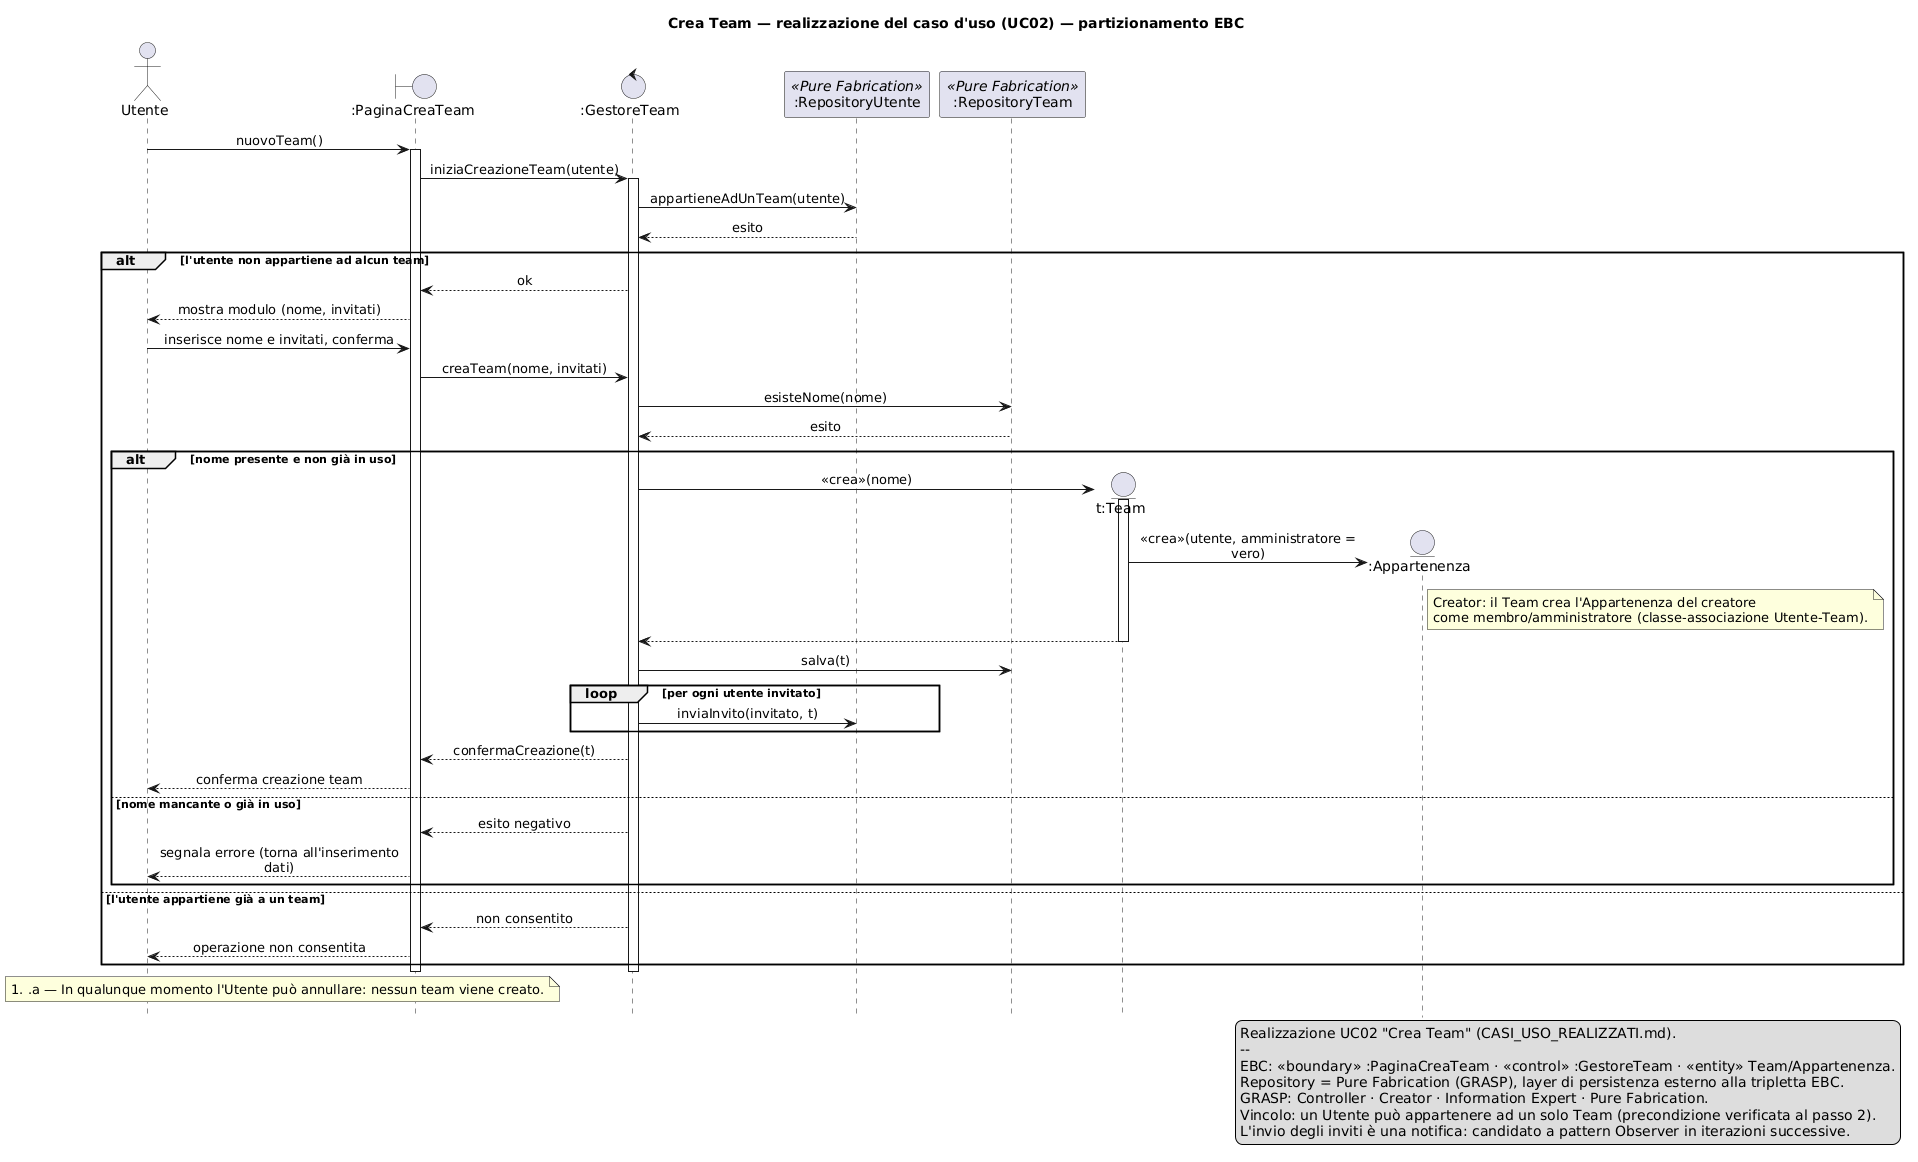
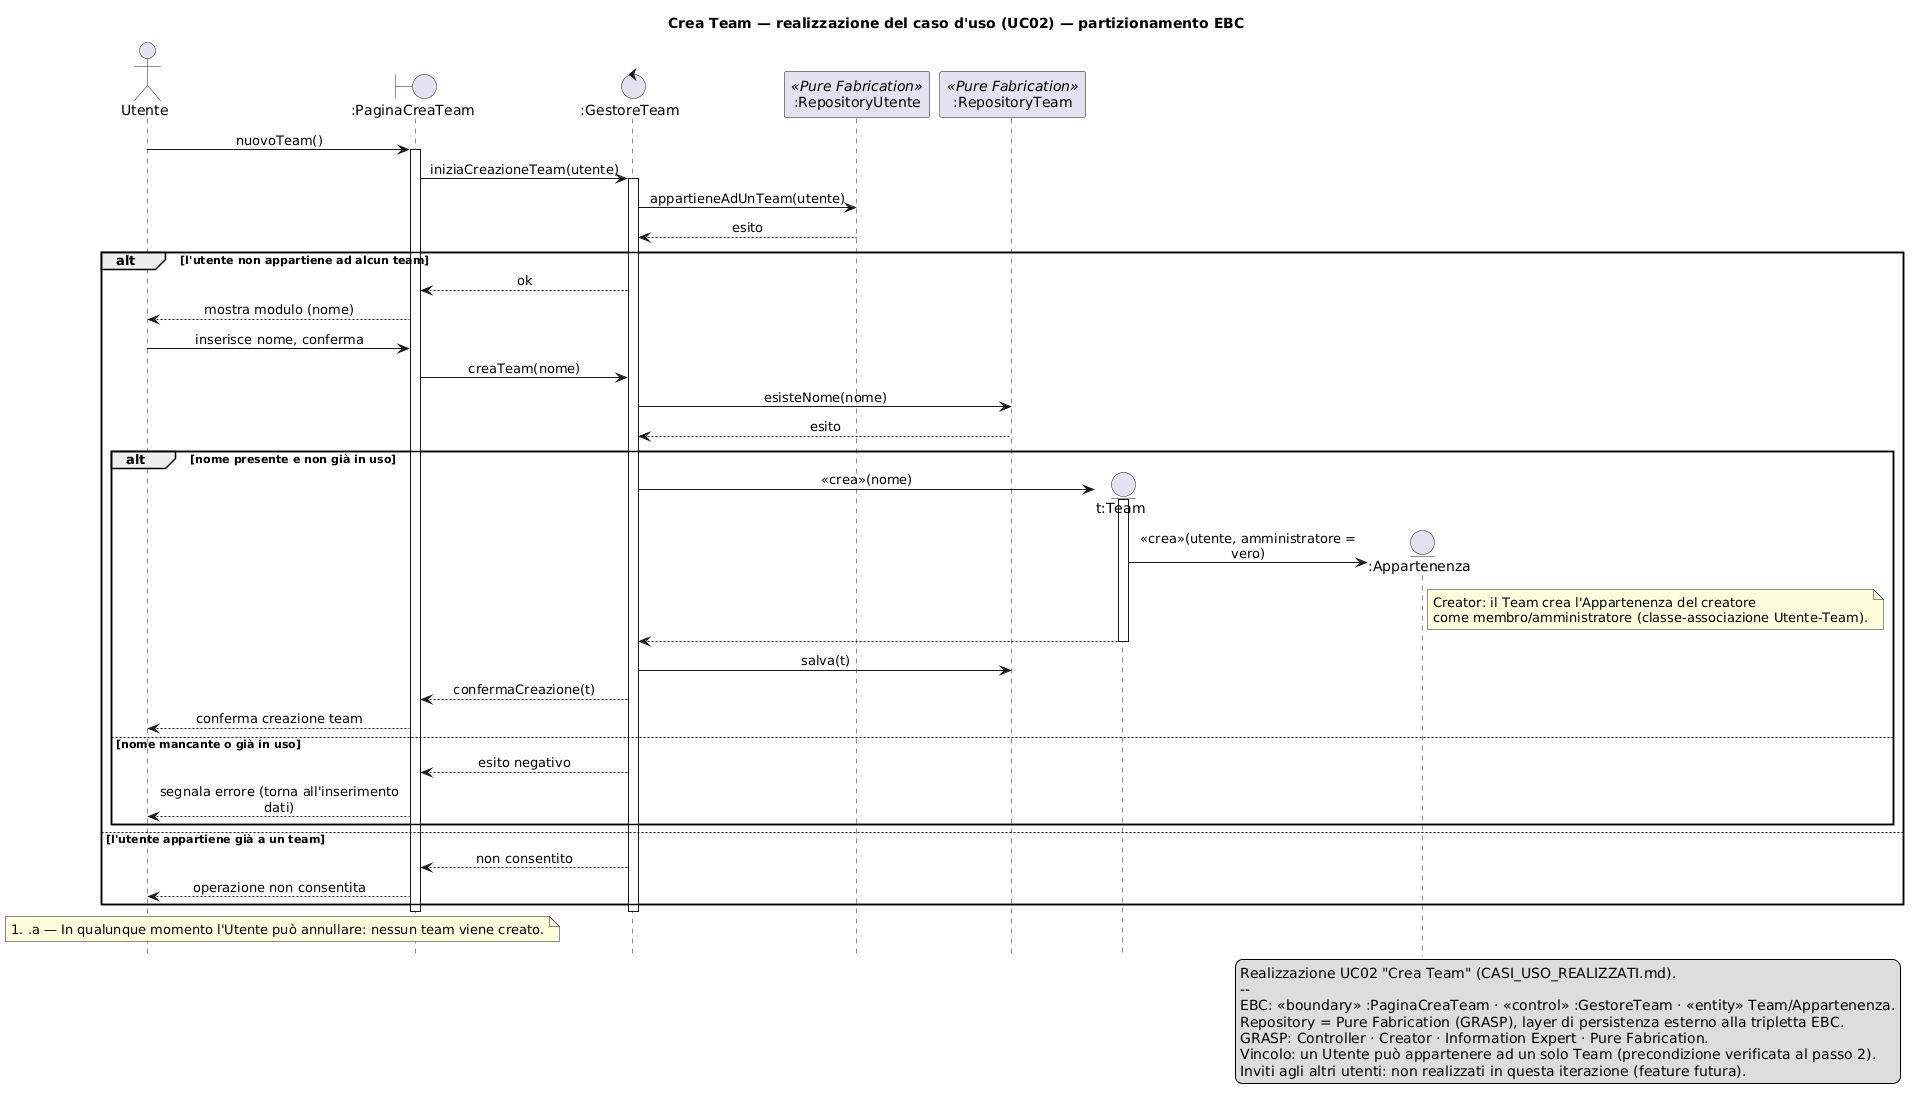
Aggiunge la relazione di realizzazione e rimuove gli inviti da Crea Team
- Nuovo documento RELAZIONE_REALIZZAZIONE.md: spiega la realizzazione dei
  5 casi d'uso tramite i diagrammi di sequenza (EBC, GRASP, State GoF) con
  le motivazioni ancorate ai materiali del corso.
- Crea Team: l'invito di altri utenti è rinviato a un'iterazione futura;
  aggiornati caso d'uso, diagramma di sequenza e legenda di conseguenza.

diff --git a/iterazione1/diagrammiSequenza/RELAZIONE_REALIZZAZIONE.md b/iterazione1/diagrammiSequenza/RELAZIONE_REALIZZAZIONE.md
@@ -1,0 +1,303 @@
+## Realizzazione dei casi d'uso — Diagrammi di sequenza (1ª iterazione HackHub)
+
+Questo documento spiega **le scelte fatte** nella realizzazione dei 5 casi d'uso della prima iterazione
+tramite i **diagrammi di sequenza** e ne dà le **motivazioni**, ancorandole ai materiali del corso
+(`docs/`). Non è una specifica nuova: i casi d'uso sono in `iterazione1/useCase/CASI_USO_REALIZZATI.md`,
+il modello di dominio in `iterazione1/analisi/CLASSI_ANALISI_REALIZZATI.puml`, e i diagrammi sorgente in
+`iterazione1/diagrammiSequenza/*/SEQ_*.puml` (con i PNG/SVG renderizzati accanto). Qui si argomenta
+**perché** quei diagrammi sono fatti così.
+
+---
+
+## 1. Scopo e collocazione nel Processo Unificato
+
+Nel Processo Unificato la **realizzazione di un caso d'uso** (_use-case realization_) è il passo che
+collega l'analisi alla progettazione: si parte dal **modello di analisi** (le classi di dominio) e si
+mostra **come gli oggetti collaborano** per eseguire lo scenario del caso d'uso, attraverso uno o più
+**diagrammi di interazione** (`docs/UML_05_Interazioni.pdf`). Il diagramma di sequenza è quindi la
+"prova" dinamica che il modello statico di analisi è sufficiente a soddisfare il comportamento richiesto.
+
+In questo passaggio compaiono **classi che non sono nel dominio del problema** ma nel **dominio della
+soluzione**: secondo `docs/UML_07_Progettazione.pdf` (slide 4-6) le classi di progettazione nascono sia
+dal dominio del problema (concetti dei requisiti) sia dal dominio della soluzione — _middleware,
+framework, **design pattern**, librerie di utilità_. È esattamente ciò che facciamo qui introducendo i
+**controller** EBC, i **Repository** (Pure Fabrication) e gli **oggetti-stato** del pattern State: non
+sono entità di dominio, sono raffinamenti di progettazione.
+
+> Lo stile delle classi di analisi resta quello _domain model_ (niente operazioni, tipi e visibilità
+> omessi — `docs/UML_03_Class.pdf` slide 13); le responsabilità (i metodi) emergono **qui**, assegnandole
+> con i criteri GRASP.
+
+---
+
+## 2. Le scelte dell'iterazione (recap)
+
+I 5 casi d'uso scelti formano la **catena del valore** (_walking skeleton_) della piattaforma: un
+percorso eseguibile end-to-end che attraversa tutti gli strati architetturali e coinvolge tutti gli
+attori primari. La motivazione completa della selezione (ranking, copertura architetturale, rischio) è in
+`iterazione1/legacy/ITERAZIONE_1_CASI_USO.md`; qui basti il percorso:
+
+```
+Crea Hackathon ─▶ Crea Team ─▶ Iscrivi Team ─▶ Invia Sottomissione ─▶ Valuta Sottomissione
+(InIscrizione)               (Team→Hackathon)   (entro la finestra)    (giudizio + voto 0–10)
+```
+
+| UC   | Caso d'uso           | Attore primario | Diagramma di sequenza                              |
+| ---- | -------------------- | --------------- | -------------------------------------------------- |
+| UC01 | Crea Hackathon       | Organizzatore   | `creaHackathon/SEQ_CreaHackathon.puml`             |
+| UC02 | Crea Team            | Utente          | `creaTeam/SEQ_CreaTeam.puml`                       |
+| UC03 | Iscrivi Team         | Membro del team | `iscriviTeam/SEQ_IscriviTeam.puml`                 |
+| UC04 | Invia Sottomissione  | Membro del team | `inviaSottomissione/SEQ_InviaSottomissione.puml`   |
+| UC05 | Valuta Sottomissione | Giudice         | `valutaSottomissione/SEQ_ValutaSottomissione.puml` |
+
+---
+
+## 3. Notazione adottata (UML_05)
+
+Tutti i diagrammi usano la notazione UML 2 per le interazioni (`docs/UML_05_Interazioni.pdf`):
+
+- **Linee di vita** per attore, boundary, control, entità e Repository.
+- **Barra di attivazione (focus)**: indica quando un oggetto è attivo nell'eseguire un'operazione.
+- **Messaggio sincrono** `->` (punta piena): chiamata con attesa della risposta.
+- **Messaggio di ritorno** `-->` (tratteggiato): risposta al chiamante.
+- **Creazione** `«crea»` con `create entity`: nascita di un nuovo oggetto sulla sua linea di vita.
+- **Frammenti combinati** `alt` / `opt` / `loop`: usati per mappare le **estensioni** dei casi d'uso
+  (i flussi alternativi e d'errore) e le ripetizioni.
+- **Niente tipi dei parametri** nei messaggi (`UML_05` slide 2): in fase di realizzazione interessano le
+  responsabilità e le collaborazioni, non le firme complete (che si fissano in implementazione).
+
+Scelte di leggibilità (coerenti con `CLAUDE.md` punto 5): `hide footbox` per eliminare il rumore in fondo
+e alcuni `skinparam` (`maxMessageSize`, allineamento) per evitare scritte sovrapposte. Ogni `.puml` ha una
+**legenda** che raccoglie i vincoli non esprimibili graficamente, così il diagramma resta pulito.
+
+---
+
+## 4. Il partizionamento EBC (Boundary–Control–Entity)
+
+Ogni diagramma è partizionato secondo la tripletta **EBC** (Entity–Boundary–Control):
+
+- **«boundary» `:PaginaXxx`** — il confine col mondo esterno (la schermata/endpoint con cui interagisce
+  l'attore). Disaccoppia l'attore dalla logica.
+- **«control» `:GestoreXxx`** — il **Controller** del caso d'uso. In `docs/PatternsGRASP.pdf` (slide 11) il
+  Controller è descritto come _"il C dell'approccio BCE all'identificazione delle classi"_: un oggetto
+  _use-case handler_ che riceve l'evento di sistema dalla boundary, orchestra le entità e coordina la
+  persistenza. Uno per caso d'uso (`GestoreHackathon`, `GestoreTeam`, `GestoreIscrizioni`,
+  `GestoreSottomissioni`, `GestoreValutazioni`).
+- **«entity»** — le classi di **dominio** (Hackathon, Team, Iscrizione, Sottomissione, …): mantengono i
+  dati e gli invarianti, **non** parlano con l'interfaccia né con la persistenza.
+
+Accanto alla tripletta vivono i **Repository** (`RepositoryHackathon`, `RepositoryTeam`, …), marcati
+`<<Pure Fabrication>>`: sono il layer di **persistenza**, esterno all'EBC.
+
+> **Regola di accoppiamento (correzione applicata in questa iterazione).** Ai Repository accede **solo il
+> Controller**: le entità di dominio non conoscono la persistenza. Nei diagrammi questo si vede dal fatto
+> che l'entità _crea_ o _aggiorna_ l'oggetto e lo **restituisce** al controller, che poi invoca
+> `salva(...)`. Così si rispetta **Low Coupling / High Cohesion** (`PatternsGRASP.pdf` slide 8-10): le
+> entità restano coese sul dominio, la persistenza è isolata.
+
+---
+
+## 5. I pattern adottati e le motivazioni
+
+Il progetto richiede **almeno due design pattern** (`progetto.MD`). Qui se ne usano due famiglie
+complementari: il **pattern GoF State** per il ciclo di vita dell'Hackathon e l'insieme dei **pattern
+GRASP** per l'assegnazione delle responsabilità.
+
+### 5.1 GRASP (`docs/PatternsGRASP.pdf`)
+
+- **Controller** (slide 11) — il `:GestoreXxx` riceve l'operazione di sistema dalla boundary e orchestra.
+  _Perché:_ tiene la logica di coordinamento fuori dalla UI e fuori dalle entità (un solo punto di
+  ingresso per scenario).
+- **Creator** (slide 6) — assegna la creazione di A a chi _contiene/aggrega/registra/usa/inizializza_ A.
+  _Dove:_ l'Hackathon crea i propri `Incarico` e lo `Stato` iniziale; il Team crea l'`Appartenenza`;
+  l'Iscrizione crea la Sottomissione; la Sottomissione "riceve" la Valutazione. _Perché:_ il creatore è
+  proprio l'oggetto che già possiede o aggrega il creato (composizioni del modello di analisi).
+- **Information Expert** (slide 7) — la responsabilità va a chi ha l'informazione per assolverla.
+  _Dove:_ l'Hackathon conosce `stato` e `dimensioneMaxTeam` (quindi decide l'iscrivibilità); la
+  Valutazione conosce i propri attributi (quindi garantisce l'invariante `punteggio 0..10` e giudizio non
+  vuoto). _Perché:_ riduce il _representational gap_ e l'accoppiamento.
+- **Pure Fabrication** (slide 12) — i **Repository** sono classi "inventate" (non di dominio) a cui si
+  affida la persistenza. _Perché:_ mettere il salvataggio dentro le entità ne abbasserebbe la coesione e
+  violerebbe la separazione dominio/persistenza; il Repository la incapsula.
+- **Polymorphism** (slide 13) — fa da ponte verso il pattern State: le guardie di stato sono operazioni
+  polimorfe sull'oggetto-stato corrente, non `if`/`switch` sul tipo.
+
+### 5.2 State (GoF) (`docs/Design Patterns.pptx.pdf`, pattern comportamentali)
+
+Nel modello di analisi lo `Stato` dell'Hackathon è un **enum** (`InIscrizione`, `InCorso`,
+`InValutazione`, `Concluso`). In progettazione lo si **raffina nel pattern State**: l'`Hackathon` è il
+_context_ che mantiene un riferimento a un **oggetto-stato polimorfo** e gli **delega** le decisioni che
+dipendono dallo stato:
+
+- `iscrizioneConsentita()` → vera solo in `InIscrizione` (UC03);
+- `sottomissioneConsentita()` → vera in `InCorso`, falsa in `InValutazione` (UC04);
+- `valutazioneConsentita()` → vera in `InValutazione` (UC05).
+
+_Motivazione (dalle slide del pattern):_ lo State si usa quando "_la classe include molto comportamento
+dentro a case statement_" che dipendono dallo stato; sostituendoli con oggetti polimorfi si ottengono
+**Single Responsibility** (un comportamento per stato) e **Open/Closed** (si aggiungono stati senza
+toccare i client). Nei diagrammi questo significa che le estensioni del tipo _"stato sbagliato"_
+(iscrizioni chiuse UC03 4.a, finestra chiusa UC04 3.a) sono realizzate **per polimorfismo**: è lo stato
+corrente a rispondere "no", non un controllo di tipo nel controller.
+
+> **Due pattern, requisito soddisfatto.** State (GoF) + GRASP coprono il vincolo di `progetto.MD`. Restano
+> **candidati per le iterazioni successive**: **Observer** per le notifiche (gli inviti di Crea Team — feature futura —, le
+> proposte/segnalazioni dei Mentori) e **Strategy** dove servisse variare un algoritmo (es. criteri di
+> valutazione). Si introdurranno _dove calzano_, non in anticipo.
+
+---
+
+## 6. Realizzazione caso per caso
+
+Per ogni caso d'uso: i partecipanti (linee di vita), il flusso essenziale, le responsabilità in gioco e
+la **mappatura delle estensioni** del caso d'uso sui frammenti del diagramma.
+
+### UC01 — Crea Hackathon · `creaHackathon/SEQ_CreaHackathon.puml`
+
+**Partecipanti:** `Organizzatore`, `:PaginaCreaHackathon`, `:GestoreHackathon`, `:RepositoryHackathon`
+(Pure Fabrication), `h:Hackathon`, `s:InIscrizione`, `incO/incG/incM:Incarico`.
+
+**Flusso e responsabilità:** la boundary inoltra `creaHackathon(dati, giudice, mentori)` al controller.
+Dentro l'`alt [dati validi AND esattamente 1 Giudice AND almeno 1 Mentore]`:
+
+- **Creator + State:** `«crea» h:Hackathon`, che a sua volta `«crea» s:InIscrizione` — lo **stato iniziale
+  è un invariante** del nuovo Hackathon (State GoF).
+- **Creator:** `assegnaStaff(...)` fa creare all'Hackathon **un `Incarico` per ruolo** — `incO`
+  (Organizzatore), `incG` (Giudice) e, in un **`loop`**, un `incM` per ciascun Mentore (1..\*). Questo
+  rende esplicito il vincolo del modello: _per ogni Hackathon 1 Organizzatore, 1 Giudice, 1..\* Mentori_.
+- **Pure Fabrication:** è il controller a chiamare `RepositoryHackathon.salva(h)`.
+
+**Estensioni → frammenti:** il ramo `else` dell'`alt` realizza UC 4.a (vincolo staff) e UC 6.a (dati non
+validi), che riportano al form. L'annullamento (#.a) è annotato in nota (nessun hackathon creato).
+
+### UC02 — Crea Team · `creaTeam/SEQ_CreaTeam.puml`
+
+**Partecipanti:** `Utente`, `:PaginaCreaTeam`, `:GestoreTeam`, `:RepositoryUtente`, `:RepositoryTeam`
+(entrambi Pure Fabrication), `t:Team`, `:Appartenenza`.
+
+**Flusso e responsabilità:**
+
+- **Information Expert:** il controller verifica la precondizione _"un utente, un solo team"_ con
+  `RepositoryUtente.appartieneAdUnTeam(utente)` — l'`alt` esterno separa il caso "non in team" da "già in
+  un team".
+- **Creator:** se il nome è valido e libero (`RepositoryTeam.esisteNome`), `«crea» t:Team`, che `«crea»`
+  la propria `:Appartenenza` con `amministratore = vero` (il creatore è primo membro/amministratore —
+  classe-associazione Utente–Team).
+- **Inviti rinviati:** in questa iterazione il modulo chiede solo il **nome** del team; l'invito di altri
+  utenti **non è realizzato** (feature futura, candidato **Observer** per le notifiche).
+
+**Estensioni → frammenti:** `alt [nome valido e libero] / [mancante o già in uso]` realizza UC 4.a;
+l'`else` esterno realizza la precondizione violata; annullamento (#.a) in nota.
+
+> **Nessuno State qui:** il Team non ha un ciclo di vita a stati, quindi il pattern State non si applica —
+> si usa solo dove serve (l'Hackathon).
+
+### UC03 — Iscrivi Team · `iscriviTeam/SEQ_IscriviTeam.puml` _(State centrale)_
+
+**Partecipanti:** `Membro del team`, `:PaginaIscrizione`, `:GestoreIscrizioni`, `:RepositoryIscrizione`
+(Pure Fabrication), `h:Hackathon`, `s:InIscrizione`, `i:Iscrizione`.
+
+**Flusso e responsabilità:**
+
+- **Pure Fabrication (query):** il controller verifica il duplicato con
+  `RepositoryIscrizione.esisteIscrizione(team, hackathon)`.
+- **State + Information Expert:** chiede all'Hackathon `iscrivibile(team)`; l'Hackathon **delega allo
+  stato** `iscrizioneConsentita()` (apertura) e confronta i membri con `dimensioneMaxTeam`.
+- **Creator:** se tutto è verde, l'Hackathon `creaIscrizione(team)` → `«crea» i:Iscrizione`; il controller
+  fa `RepositoryIscrizione.salva(i)`.
+
+**Estensioni → frammenti:** un `alt` a **4 operandi** mappa esattamente le estensioni del caso d'uso:
+iscrizione riuscita; **4.a** stato ≠ InIscrizione (iscrizioni chiuse, _per polimorfismo_); **4.b** team
+già iscritto (nessun duplicato); **4.c** team oltre la dimensione massima.
+
+### UC04 — Invia Sottomissione · `inviaSottomissione/SEQ_InviaSottomissione.puml` _(State centrale)_
+
+**Partecipanti:** `Membro del team`, `:PaginaSottomissione`, `:GestoreSottomissioni`, `h:Hackathon`,
+`s:InCorso`, `i:Iscrizione`, `:RepositorySottomissione` (Pure Fabrication), `sub:Sottomissione`.
+
+**Flusso e responsabilità:**
+
+- **State:** all'apertura del modulo, l'Hackathon delega allo stato `sottomissioneConsentita()`:
+  `InCorso` ammette l'invio, `InValutazione` lo rifiuta (finestra chiusa).
+- **Creator:** alla conferma, l'Iscrizione `creaSottomissione(dati)` → `«crea» sub:Sottomissione` con
+  `dataOra = adesso` (timestamp del salvataggio). L'Iscrizione **contiene** la Sottomissione
+  (composizione del modello).
+- **Pure Fabrication:** l'Iscrizione restituisce `sub` al controller, che fa
+  `RepositorySottomissione.salva(sub)`.
+
+**Estensioni → frammenti:** `alt [InCorso] / [InValutazione]` realizza UC 3.a (finestra chiusa, per
+polimorfismo); un `alt` **annidato** `[conferma] / [annulla]` realizza UC 5.a (ritorno al modulo).
+L'annullamento generale (#.a) ripristina lo stato precedente (in nota).
+
+### UC05 — Valuta Sottomissione · `valutaSottomissione/SEQ_ValutaSottomissione.puml` _(State + range 0..10)_
+
+**Partecipanti:** `Giudice`, `:PaginaValutazione`, `:GestoreValutazioni`, `:RepositorySottomissione`
+(Pure Fabrication), `h:Hackathon`, `s:InValutazione`, `sub:Sottomissione`, `v:Valutazione`,
+`:RepositoryValutazione` (Pure Fabrication).
+
+**Flusso e responsabilità:**
+
+- **Pure Fabrication:** `RepositorySottomissione.sottomissioniDi(hackathon)` produce l'elenco (UC 2).
+- **State:** alla selezione, l'Hackathon delega allo stato `valutazioneConsentita()` → abilitata solo in
+  `InValutazione` (precondizione del caso d'uso).
+- **Creator + Information Expert:** `sub.registraValutazione(...)`; se valido, la Sottomissione "riceve"
+  la propria `«crea» v:Valutazione`. È la **Valutazione** a garantire l'**invariante** `punteggio 0..10` e
+  giudizio non vuoto (Information Expert). Il controller fa `RepositoryValutazione.salva(v)`.
+
+**Estensioni → frammenti:** un `opt [già valutata]` realizza UC 4.a (mostra la valutazione esistente,
+modificabile — `registraValutazione` aggiorna invece di duplicare); un `alt` a **3 operandi** realizza la
+valutazione valida, UC 7.a (punteggio fuori 0..10) e UC 7.b (giudizio vuoto), entrambi con ritorno ai
+dettagli.
+
+> **Vincolo non grafico (in legenda):** il giudice che valuta coincide con il **Giudice dell'Incarico**
+> dell'Hackathon a cui appartiene l'Iscrizione della Sottomissione (modello di analisi).
+
+---
+
+## 7. Coerenza con il modello di analisi
+
+I diagrammi riusano **gli stessi nomi** di `CLASSI_ANALISI_REALIZZATI.puml`: entità (`Utente`,
+`Hackathon`, `Team`, `Incarico`, `Appartenenza`, `Iscrizione`, `Sottomissione`, `Valutazione`) e ruoli
+(`contiene`, `riceve`, `redige`). In particolare:
+
+- le **classi-associazione** `Incarico`, `Appartenenza`, `Iscrizione` compaiono come oggetti creati nei
+  punti giusti (rispettivamente in UC01, UC02, UC03);
+- le **composizioni** Iscrizione→Sottomissione e Sottomissione→Valutazione guidano il _Creator_ in UC04 e
+  UC05;
+- l'**enum `Stato`** è raffinato negli oggetti-stato del pattern State (UML_07 slide 5-6: classi dal
+  dominio della soluzione);
+- i **vincoli non esprimibili graficamente** (staff 1/1/1..\*, punteggio 0..10, giudice = Giudice
+  dell'Incarico, un utente un solo team) sono ribaditi nelle **legende** dei diagrammi, non con note
+  appese.
+
+---
+
+## 8. Tabella riassuntiva
+
+| UC   | Attore        | Pattern in evidenza                                  | Estensioni mappate (frammenti)                   |
+| ---- | ------------- | ---------------------------------------------------- | ------------------------------------------------ |
+| UC01 | Organizzatore | Creator, State (stato iniziale), Pure Fabrication    | `alt` 4.a/6.a · `loop` Mentori · nota #.a        |
+| UC02 | Utente        | Information Expert, Creator (no State)               | `alt` esterno (precond.) · `alt` 4.a             |
+| UC03 | Membro team   | **State**, Information Expert, Creator, Pure Fabric. | `alt` 4 operandi (ok/4.a/4.b/4.c)                |
+| UC04 | Membro team   | **State**, Creator (composizione), Pure Fabrication  | `alt` InCorso/InValutazione · `alt` annidato 5.a |
+| UC05 | Giudice       | **State**, Creator, Information Expert (invariante)  | `opt` 4.a · `alt` 3 operandi (ok/7.a/7.b)        |
+
+---
+
+## 9. Riferimenti ai materiali del corso
+
+- `docs/UML_05_Interazioni.pdf` — notazione dei diagrammi di interazione (linee di vita, focus, messaggi
+  sincroni/ritorno, creazione, frammenti `alt/opt/loop`); **slide 2**: niente tipi dei parametri.
+- `docs/UML_07_Progettazione.pdf` — **slide 4-6**: classi di progettazione dal _dominio della soluzione_
+  (design pattern, framework); raffinamento del modello di analisi.
+- `docs/PatternsGRASP.pdf` — Creator (**6**), Information Expert (**7**), Low Coupling/High Cohesion
+  (**8-10**), Controller (**11**, "il C dell'approccio BCE"), Pure Fabrication (**12**), Polymorphism
+  (**13**).
+- `docs/Design Patterns.pptx.pdf` — pattern **State** (comportamentale): oggetti-stato polimorfi al posto
+  dei _case statement_; SRP + Open/Closed.
+- `docs/UML_03_Class.pdf` — **slide 13**: stile _domain model_ (niente operazioni in analisi).
+- `progetto.MD` — requisito: _almeno due design pattern_; vincoli di dominio (punteggio 0..10, staff
+  1 Giudice/1+ Mentori, un utente un solo team).
+- `iterazione1/useCase/CASI_USO_REALIZZATI.md` — i 5 casi d'uso e le loro estensioni.
+- `iterazione1/analisi/CLASSI_ANALISI_REALIZZATI.puml` — il modello di dominio realizzato.
+- `iterazione1/legacy/ITERAZIONE_1_CASI_USO.md` — motivazione della selezione dei 5 casi d'uso.

diff --git a/iterazione1/useCase/CASI_USO_REALIZZATI.md b/iterazione1/useCase/CASI_USO_REALIZZATI.md
@@ -57,7 +57,7 @@ Specifiche dei 5 casi d'uso della prima iterazione **così come effettivamente m
 
 ## Crea Team
 
-**Descrizione:** Un Utente registrato crea un nuovo team, invitando eventualmente altri utenti. Chi crea il team ne diventa il primo membro (e amministratore).
+**Descrizione:** Un Utente registrato crea un nuovo team. Chi crea il team ne diventa il primo membro (e amministratore).
 
 **Pre-condizioni:**
 
@@ -67,7 +67,6 @@ Specifiche dei 5 casi d'uso della prima iterazione **così come effettivamente m
 
 - Esiste un nuovo team persistito.
 - L'Utente creatore risulta membro (ed amministratore) del team.
-- Gli eventuali inviti agli altri utenti sono stati registrati/inviati.
 - _oppure_
 - l'operazione viene annullata
 
@@ -75,15 +74,14 @@ Specifiche dei 5 casi d'uso della prima iterazione **così come effettivamente m
 
 1. Il caso d'uso ha inizio quando l'Utente richiede la creazione di un nuovo team.
 2. SYSTEM verifica che l'Utente non appartenga già ad un team.
-3. SYSTEM presenta il modulo (nome del team ed elenco di utenti da invitare).
-4. l'Utente inserisce il nome del team e seleziona gli utenti da invitare.
-   - **4.a.** Nome del team mancante o già in uso:
-     - 4.a.1. SYSTEM segnala l'errore
-     - 4.a.2. jump to 4. l'Utente inserisce il...
+3. SYSTEM presenta il modulo (nome del team).
+4. l'Utente inserisce il nome del team.
+   4.a. Nome del team mancante o già in uso:
+   4.a.1. SYSTEM segnala l'errore
+   4.a.2. jump to 4. l'Utente inserisce il...
 5. l'Utente conferma
 6. SYSTEM crea il team e vi associa l'Utente come membro/amministratore.
-7. SYSTEM invia gli inviti agli utenti selezionati.
-8. SYSTEM conferma la creazione del team.
+7. SYSTEM conferma la creazione del team.
 
 - **#.a.** In qualunque momento l'Utente annulla: nessun team viene creato.
   - #.a.1. exit Scenario